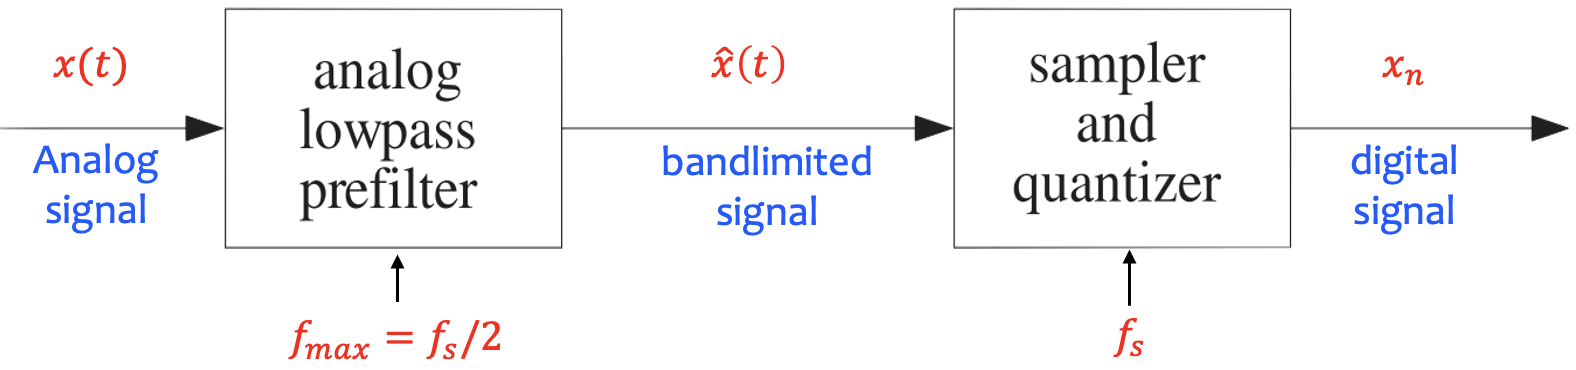
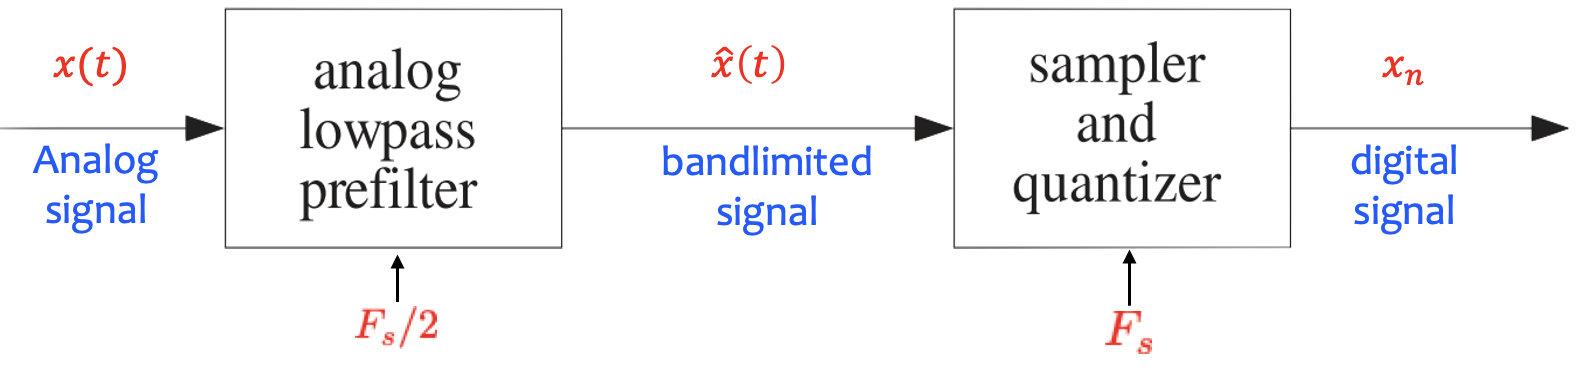
upd cap2

Changed region(s): [[0.1865, 0.8324, 0.342, 0.9811], [0.684, 0.8324, 0.7462, 0.9811]]

diff --git a/cap2-audio.md b/cap2-audio.md
@@ -29,26 +29,17 @@ Un computer può memorizzare solo un numero finito di valori numerici, e tali va
 
 In termini hardware, un convertitore analogico-digitale (ADC) è un dispositivo, o chip, che converte segnali da analogici a digitali tramite campionamento e quantizzazione, mentre un convertitore digitale-analogico (DAC) converte i segnali digitali in analogici tramite ricostruzione. Nella Figura è mostrato un esempio di sistema di elaborazione audio.
 
-```{image} images/sistema.png
-:alt: long
-:class: bg-primary mb-1
-:width: 700px
-:align: center
-```
+![sys](images/sistema.png)
+
 Le vibrazioni nell’aria, rappresentate dal segnale analogico, vengono convertite da un segnale di pressione a uno elettrico dal microfono. Il segnale analogico dal microfono viene poi trasformato in uno digitale tramite l’ADC, dopodiché il segnale digitale può essere elaborato da un computer. Il segnale digitale elaborato può quindi essere convertito in uno analogico tramite il DAC e, infine, riconvertito in un segnale di pressione da inviare, per esempio, ad un altoparlante attivo.
 
 Per quanto riguarda il motivo per cui preferiamo elaborare segnali digitali piuttosto che analogici, ci sono molte ragioni tecniche; le più importanti sono che i computer sono flessibili, possono fare cose che potremmo solo sognare con l’hardware analogico e sono generalmente molto più economici rispetto alla corrispondente soluzione analogica. 
 
 La rappresentazione digitale di un segnale audio analogico come sequenza di numeri è ottenuta tramite un convertitore analogico-digitale (ADC). L’ADC esegue il campionamento delle ampiezze del segnale analogico $x(t)$ su una griglia equidistante lungo l’asse orizzontale del tempo e la quantizzazione delle ampiezze in campioni fissi rappresentati da numeri $x(n)$ lungo l’asse verticale dell’ampiezza (come in figura). 
 
-```{image} images/DAFX.png
-:alt: long
-:class: bg-primary mb-1
-:width: 700px
-:align: center
-```
+![DAFX](images/DAFX.png)
 
-I campioni sono mostrati come linee verticali con punti in alto. Il segnale analogico $x(t)$ indica l’ampiezza del segnale su un tempo continuo $t$in microsecondi. A seguito dell’ADC, il segnale digitale (tempo discreto e ampiezza quantizzata) è una sequenza (flusso) di campioni $x(n)$ rappresentati da numeri sull'indice di tempo discreto $n$. La distanza temporale tra due campioni consecutivi è chiamata intervallo di campionamento $T$ (periodo di campionamento) e il reciproco è la frequenza di campionamento.
+I campioni sono mostrati come linee verticali con punti in alto. Il segnale analogico $x(t)$ indica l’ampiezza del segnale su un tempo continuo $t$in microsecondi. A seguito dell’ADC, il segnale digitale (tempo discreto e ampiezza quantizzata) è una sequenza (flusso) di campioni $x(n)$ rappresentati da numeri sull'indice di tempo discreto $n$. La distanza temporale tra due campioni consecutivi è chiamata intervallo di campionamento $T_s$ (periodo di campionamento) e il reciproco è la frequenza di campionamento $F_s$.
 
 In questo capitolo, spiegheremo cosa sono il campionamento e la quantizzazione, come funzionano e anche come possiamo ricostruire segnali analogici partendo da quelli digitali.
 
@@ -57,16 +48,19 @@ In questo capitolo, spiegheremo cosa sono il campionamento e la quantizzazione, 
 Il processo di campionamento trasforma un segnale analogico in un segnale discreto, raccogliendo valori a intervalli di tempo regolari. In linea di principio, il teorema di campionamento di Nyquist-Shannon afferma che, affinché un segnale possa essere rappresentato senza ambiguità, la frequenza di campionamento deve essere almeno il doppio della frequenza massima del segnale originale. 
 
 Supponiamo di avere un segnale nel tempo continuo, $x(t)$, definito per ogni valore reale di $t$ e che vogliamo elaborare con un DSP. Il processo di campionamento comporta la misurazione del valore di questa funzione in istanti di tempo specifici, $t_n$, indicizzati da $n= 0,1,2,\dots$, per ottenere il segnale $x(n)=x(t_n)$, che chiamiamo `segnale a tempo discreto`. Il modo più semplice e comune di campionare è il campionamento uniforme, che significa campionare a punti equidistanti, cioè,
+
 $$t_n = T_s n, \qquad n = 0,1,2,\dots$$
+
 dove $T_s$ è il tempo (in secondi) tra due campioni consecutivi ed è chiamato `periodo di campionamento`. Possiamo osservare che un segnale campionato, o digitale, è in realtà solo una sequenza ordinata di numeri. Più piccolo è $T_s$, più finemente campioniamo il segnale continuo originale, $x(t)$. Possiamo rappresentare il numero di campioni ottenuti per secondo utilizzando la `frequenza di campionamento`, definita come
-$$f_s=\frac{1}{T_s}.$$
+
+$$F_s=\frac{1}{T_s}.$$
 
 La frequenza di campionamento è misurata in Hertz (Hz). L’audio viene solitamente campionato a $44.1$ kHz e oltre, mentre la voce può essere campionata fino a $8$ kHz, il che risulta in segnali comprensibili ma certamente non di alta qualità. Nella figura, il processo di campionamento è esemplificato da un segnale continuo, $x(t)$ (blu), che viene campionato per ottenere il segnale a tempo discreto $x(n)$ (rosso).
 
 ```{image} images/sampling.png
 :alt: long
 :class: bg-primary mb-1
-:width: 400px
+:width: 350px
 :align: center
 ```
 
@@ -78,52 +72,44 @@ x(t)=\sin\left( 2\pi ft \right).
 
 Usando la definizione di frequenza di campionamento, otteniamo 
 
-$$x(n)=\sin\left( 2\pi \frac{f}{f_s}n \right)$$
+$$x(n)=\sin\left( 2\pi \frac{f}{F_s}n \right)$$
 
-da cui possiamo definire la seguente quantità
+da cui possiamo definire le seguente quantità
 
-$$\omega=2\pi \frac{f}{f_s}$$
+$$\omega=2\pi \frac{f}{F_s}$$
 
-che chiamiamo `frequenza digitale`. Essa esprime il numero di radianti per campione. Da una tale frequenza digitale da sola, quindi, non possiamo determinare quale sarebbe la frequenza in Hertz, a meno che non conosciamo la frequenza di campionamento. Una frequenza digitale di $\omega=2\pi$ corrisponde alla frequenza di campionamento, indipendentemente dal valore che essa assume. Questo spiega intuitivamente il fatto che un segnale digitale è semplicemente una sequenza di numeri; quindi, senza ulteriori conoscenze, non avremmo modo di dedurre nulla riguardo alla frequenza di campionamento.
+che chiamiamo `frequenza digitale`. Essa esprime il numero di radianti per campione [rad/sample], mentre il rapporto $f/F_s$ esprime il numero di cicli per campione [cycle/sample]. Da una tale frequenza digitale da sola, quindi, non possiamo determinare quale sarebbe la frequenza in Hertz, a meno che non conosciamo la frequenza di campionamento. Una frequenza digitale di $\omega=2\pi$ corrisponde alla frequenza di campionamento, indipendentemente dal valore che essa assume. Questo spiega intuitivamente il fatto che un segnale digitale è semplicemente una sequenza di numeri; quindi, senza ulteriori conoscenze, non avremmo modo di dedurre nulla riguardo alla frequenza di campionamento.
 
 Ora, la domanda fondamentale che dovremmo porci è questa: quale frequenza di campionamento dobbiamo scegliere per campionare il seno nell’equazione {eq}`eq1`? Parlando tecnicamente, ciò di cui ci preoccupiamo quando campioniamo è se lo spettro, ossia i contenuti in frequenza, del segnale campionato è lo stesso di quello del segnale continuo originale. Se lo è, significa che abbiamo una rappresentazione digitale perfetta del segnale analogico. Si può dimostrare che se campioniamo il segnale con una frequenza di campionamento che è più del doppio della frequenza del seno, il segnale campionato avrà lo stesso spettro dell’originale. Ora, sorgono un paio di domande. In primo luogo, come generalizziamo questo risultato a qualsiasi segnale, non solo ai seni? La risposta a questa domanda è che, come abbiamo già accennato, (quasi) qualsiasi segnale può essere considerato composto da un numero di seni, e possiamo utilizzare il principio di prima, secondo cui la frequenza di campionamento deve essere più del doppio delle frequenze dei seni. Quindi, se la frequenza più alta di un seno in un segnale è , allora la frequenza di campionamento dovrebbe rispettare
 
-$$f_s>2f_{max}.$$
+$$F_s>2f_{max}.$$
 
-Questo è conosciuto come il `teorema di campionamento`. A volte, a seconda del campo, è attribuito e denominato in base a diverse persone, tra cui Nyquist, Shannon, Whittaker e Kotelnikov. La seconda domanda è: come possiamo sapere qual è la frequenza massima dei seni nel nostro segnale? La risposta a questa domanda è che generalmente non lo sappiamo. Invece, possiamo semplicemente assicurarci che, per una frequenza di campionamento selezionata, $f_s$, per il nostro sistema audio, rimuoveremo tutti i contenuti superiormente da $f_s/2$! Questo viene fatto con un cosiddetto `filtro anti-aliasing`, che è semplicemente un filtro passa-basso analogico con una frequenza di stop pari a $f_s/2$, il che significa che tutte le frequenze al di sopra della frequenza di stop vengono rimosse o attenuate. Questo è illustrato in figura.
+Questo è conosciuto come il `teorema di campionamento`. A volte, a seconda del campo, è attribuito e denominato in base a diverse persone, tra cui Nyquist, Shannon, Whittaker e Kotelnikov. La seconda domanda è: come possiamo sapere qual è la frequenza massima dei seni nel nostro segnale? La risposta a questa domanda è che generalmente non lo sappiamo. Invece, possiamo semplicemente assicurarci che, per una frequenza di campionamento selezionata, $F_s$, per il nostro sistema audio, rimuoveremo tutti i contenuti superiormente da $F_s/2$! Questo viene fatto con un cosiddetto `filtro anti-aliasing`, che è semplicemente un filtro passa-basso analogico con una frequenza di stop pari a $F_s/2$, il che significa che tutte le frequenze al di sopra della frequenza di stop vengono rimosse o attenuate. Questo è illustrato in figura.
 
-```{image} images/antialiasing.png
-:alt: long
-:class: bg-primary mb-1
-:width: 700px
-:align: center
-```
+![aalias](images/antialiasing.png)
+
 ##### Aliasing
 
-Diciamo che il segnale è quindi a banda limitata. `L’aliasing` si riferisce al fenomeno che si verifica quando non rispettiamo il teorema di campionamento. Quando campioniamo a una frequenza di campionamento che è inferiore al doppio della frequenza massima, ciò che accade è che le parti dello spettro al di sopra della metà della frequenza di campionamento si ripiegano attorno alla metà della frequenza di campionamento e appaiono nello spettro inferiore come immagini speculari di sorta. Poiché queste immagini speculari si mescolano con i contenuti in frequenza e non possono essere recuperate o rimosse, abbiamo distorto il nostro segnale. Ad esempio, tornando all’esempio in cui il segnale è un singolo seno, un seno di 5 Hz campionato a 4 Hz subirebbe aliasing e il segnale campionato sarebbe identico a un seno di 1 Hz!, come si nota anche dallo spettro nella figura. 
-```{image} images/alias.png
-:alt: alias
-:class: bg-primary mb-1
-:width: 700px
-:align: center
-```
-La frequenza $f_s/2$ è molto importante, ed è chiamata `frequenza di Nyquist`. Nella successiva figura, è invece mostrato un esempio di un segnale continuo e del segnale digitale risultante. Il segnale continuo è un seno con una frequenza di 2 Hz ed è campionato a una frequenza di 5 Hz. In quel caso, il teorema di campionamento è soddisfatto, e possiamo vedere che i campioni rappresentano bene il segnale. 
+Diciamo che il segnale è quindi a banda limitata. `L’aliasing` si riferisce al fenomeno che si verifica quando non rispettiamo il teorema di campionamento. Quando campioniamo a una frequenza di campionamento che è inferiore al doppio della frequenza massima ciò che accade è che le parti dello spettro al di sopra della metà della frequenza di campionamento si ripiegano attorno alla metà della frequenza di campionamento e appaiono nello spettro inferiore come immagini speculari di sorta. Poiché queste immagini speculari si mescolano con i contenuti in frequenza e non possono essere recuperate o rimosse, abbiamo distorto il nostro segnale. Ad esempio, tornando all’esempio in cui il segnale è un singolo seno di 5 Hz ma campionato a 4 Hz, il segnale campionato subirebbe aliasing risultando identico a un seno di 1 Hz!, come si nota anche dallo spettro nella figura. 
 
-```{image} images/noalias.png
+![aalias](images/alias.png)
+
+La frequenza $F_s/2$ è molto importante, ed è chiamata `frequenza di Nyquist`. Nella successiva figura, è invece mostrato un esempio di un segnale continuo e del segnale digitale risultante. Il segnale continuo è un seno con una frequenza di 2 Hz ed è campionato a una frequenza di 5 Hz. In quel caso, il teorema di campionamento è soddisfatto, e possiamo vedere che i campioni rappresentano bene il segnale. 
+
+![noalias](images/noalias.png)
+
+Una regola semplice che definisce quali frequenze spurie compariranno nello spettro per effetto dell'aliasing è la seguente: ogni frequenza $f\in [-F_s/2, 𝐹_s/2]+ k 𝐹_𝑠$, con  $k\in\mathbb{N}$, ha un unico valore corrispondente che si trova all'interno dell'intervallo di Nyquist $[-F_s/2, 𝐹_s/2]$ e si ottiene aggiungendo o sottraendo da $f$ un numero pari a $k$ multipli di $F_s$, fino a quando non cade all'interno dell'intervallo di Nyquist. L'operazione è un'operazione modulare come riportata in figura qui sotto.
+
+```{image} images/mod_alias.png
 :alt: long
 :class: bg-primary mb-1
-:width: 700px
+:width: 600px
 :align: center
 ```
 
 Per riassumere le frequenze in gioco nel processo di campionamento, riportiamo in tabella di seguito le principali definizioni e in particolare la loro relazione con l'intervallo di Nyquist. 
 
-```{image} images/tabella_freq.png
-:alt: freq
-:class: bg-primary mb-1
-:width: 700px
-:align: center
-```
+![tab](images/tabella_freq.png)
 
 Nella Tabella sotto sono elencate alcune delle frequenze di campionamento audio più comuni e le loro applicazioni. Le moderne schede audio supportano solitamente un’ampia gamma di frequenze di campionamento e sono quindi piuttosto flessibili. È importante notare che, per ragioni tecniche, è spesso vantaggioso utilizzare una frequenza di campionamento più alta nella registrazione originale e durante l’elaborazione rispetto a quella che verrà utilizzata nel prodotto finale, come un CD. Accenniamo brevemente al fatto che il processo di passaggio da una frequenza di campionamento a un’altra, un’operazione comune in molti sistemi audio, si chiama ricampionamento.
 
@@ -316,13 +302,14 @@ Ecco i dettagli chiave su come funziona e perché è utile:
    - Immagina un sistema che acquisisce un segnale audio. Un ADC bipolare può convertire l’intero segnale, senza troncare o saturare valori negativi. Se il segnale va da $ -2.5 \, \text{V} $ a $ +2.5 \, \text{V} $ e il sistema ha un ADC a 10 bit con riferimento di $ 2.5 \, \text{V} $, ogni valore digitale rappresenta un piccolo intervallo uniforme di tensione (passo di quantizzazione) su tutto l’intervallo bipolare.
 
 In sintesi, un ADC bipolare è ideale per applicazioni in cui il segnale analogico è bilaterale, garantendo una rappresentazione digitale precisa ed efficiente dei segnali a polarità variabile. In figura si mostra lo schema di funzionamento di un ADC caratterizzato da un full-scale range $𝑅$ diviso equamente (per un quantizzatore uniforme) in $l=2^𝑞$ livelli di quantizzazione. La spaziatura tra i livelli è chiamata `Risoluzione del quantizzatore` ed è pari a $Q=𝑅/2^𝑞$.
+
 ![bipolare](images/ADC-bipolare.png)
 
 In figura si mostra un modello di convertitore ADC Sample and Hold (S&H) a $q+1$ bit di risoluzione, che è un elemento fondamentale nei sistemi di conversione.
 
 ![SAM-HOLD.png](images/SAM-HOLD.png) 
 
- Questo modello consente di “campionare” un segnale analogico in un determinato istante di tempo e di mantenere, o “tenere”, il valore del segnale fino al campionamento successivo, rendendolo disponibile per l’ADC e garantendo una conversione precisa. Questo è essenziale perché il processo di conversione richiede un certo tempo e il segnale può variare rapidamente. In ogni ciclo di campionamento, il circuito S&H esegue due operazioni: la fase di campionamento (Sample) e la fase di mantenimento (Hold). Nella fase di campionamento (Sample) il circuito chiude un interruttore per un breve periodo, consentendo al condensatore (il componente principale per mantenere la tensione) di caricare il valore istantaneo del segnale analogico. Nella fase di mantenimento (Hold) l’interruttore si apre, isolando il condensatore dal segnale in ingresso. Il condensatore ora mantiene (o trattiene) il valore della tensione catturata finché non avviene il campionamento successivo. Le componenti principali sono:
+Questo modello consente di “campionare” un segnale analogico in un determinato istante di tempo e di mantenere, o “tenere”, il valore del segnale fino al campionamento successivo, rendendolo disponibile per l’ADC e garantendo una conversione precisa. Questo è essenziale perché il processo di conversione richiede un certo tempo e il segnale può variare rapidamente. In ogni ciclo di campionamento, il circuito S&H esegue due operazioni: la fase di campionamento (Sample) e la fase di mantenimento (Hold). Nella fase di campionamento (Sample) il circuito chiude un interruttore per un breve periodo, consentendo al condensatore (il componente principale per mantenere la tensione) di caricare il valore istantaneo del segnale analogico. Nella fase di mantenimento (Hold) l’interruttore si apre, isolando il condensatore dal segnale in ingresso. Il condensatore ora mantiene (o trattiene) il valore della tensione catturata finché non avviene il campionamento successivo. Le componenti principali sono:
 - Interruttore: Generalmente realizzato con un transistor MOSFET o un interruttore elettronico, che si apre e chiude per controllare il flusso del segnale al condensatore.
 - Condensatore: Memorizza la tensione campionata, trattenendola durante la fase di mantenimento. La capacità del condensatore influenza il tempo di mantenimento e la precisione.
 - Buffer: Spesso è presente un buffer (come un amplificatore operazionale) tra il condensatore e il carico, per evitare che il segnale decada a causa della scarica del condensatore.
@@ -333,11 +320,6 @@ Lo schema del circuito  è mostrato sotto e lo scopo è quello di acquisire la t
 
 In sintesi, il modello Sample and Hold è cruciale per isolare e trattenere il segnale analogico prima della conversione digitale, riducendo errori di quantizzazione e migliorando la fedeltà dei dati digitali.
 
-
-
-
-
-
 ## Conversione Digitale-Analogica (DAC)
 
 Un convertitore DAC (Digital-to-Analog Converter) è un dispositivo che trasforma segnali digitali in segnali analogici. Questa conversione è fondamentale per applicazioni in cui segnali digitali devono essere presentati o utilizzati in un ambiente analogico, come in dispositivi audio, video, comunicazioni, e attuatori di controllo. Il Principio di Funzionamento di un DAC è il seguente.
@@ -346,7 +328,7 @@ Un convertitore DAC (Digital-to-Analog Converter) è un dispositivo che trasform
 
 La trasformazione di bit in livelli di tensione in un convertitore digitale-analogico (DAC) avviene assegnando a ogni combinazione di bit un valore di tensione corrispondente, che rispecchia l’informazione digitale in un formato analogico.
 
-###### Codifica Binaria e Livelli di Tensione
+##### Codifica Binaria e Livelli di Tensione
 
 - In un sistema digitale a $m$ bit, ogni configurazione dei bit rappresenta un valore discreto, compreso tra $0$ e $2^{m}-1$.
 - L’intervallo di tensione totale del DAC è definito dai valori di tensione $V_{\text{min}}$ e $V_{\text{max}}$, dove $V_{\text{min}}$ è il livello di tensione più basso (di solito $0$ V) e $V_{\text{max}}$ il livello più alto.
@@ -360,9 +342,9 @@ Nella conversione unipolare, il `DAC Unipolare` converte i segnali digitali in l
 
 ![alt text](images/DAC.png)
 
-
 Per ottenere la tensione in uscita $V_{out}$ per una configurazione di bit specifica $b_1,\dots,b_m$ (un valore binario tra 0 e $2^m-1$), la formula è:
 
 $$V_{out}=\frac{V_{\text{ref}}}{2^m}(𝑏_0 2^{0}+𝑏_1 2^{1}+\cdots+b_{N-1}2^{N-1})=\frac{V_{\text{ref}}}{2^m}D$$
 
 dove $D\in\{0,1,\dots,2^m-1\}$.
+

diff --git a/cap1-suono.md b/cap1-suono.md
@@ -4,7 +4,13 @@ Il suono
 
 ##### Introduzione
 
+Il suono è una parte integrante della nostra vita. È uno dei modi più importanti per percepire il mondo che ci circonda. Inoltre, è fondamentale per la nostra comunicazione con l’ambiente e con gli altri esseri umani. È anche un mezzo di espressione e di esperienza artistica, sotto forma, ad esempio, di musica. Per la maggior parte di noi, sarebbe difficile immaginare una vita senza suono.
 
+Il suono viene spesso definito come una sensazione uditiva o come la perturbazione in un mezzo che provoca tale sensazione. Come fenomeno fisico, che è il modo in cui lo considereremo qui, il suono si riferisce a onde che originano in un punto e si propagano attraverso un mezzo fino a raggiungere un altro punto, dove possono essere udite o misurate. Queste onde sonore viaggiano in solidi, liquidi e gas, e si presentano in due forme: longitudinali e trasversali. Nelle onde longitudinali, lo spostamento del mezzo avviene nella direzione di propagazione dell’onda, mentre nelle onde trasversali, lo spostamento è ortogonale alla direzione di propagazione. Entrambi i tipi di onde causano variazioni di pressione, misurate in un singolo punto, che possono provocare una sensazione uditiva. Le onde sonore possono essere generate da corpi in vibrazione, cambiamenti nel flusso d’aria, fonti di calore, ecc. È chiaro quindi che nella creazione e propagazione del suono sono coinvolti alcuni principi fisici.
+
+I capitoli seguenti trattano ciò che viene chiamato elaborazione audio, ovvero la teoria e i metodi per l’elaborazione dei segnali audio. I segnali audio si riferiscono semplicemente a segnali sonori udibili, mentre un segnale è qualcosa che viene misurato nel tempo (e/o nello spazio). Questo qualcosa, in questo contesto, è la pressione, perché ciò che percepiamo con le nostre orecchie sono variazioni di pressione. Cosa significa allora elaborazione? L’elaborazione si riferisce a qualsiasi operazione che possiamo voler fare con o sui segnali audio. Potremmo voler manipolare i segnali audio per scopi artistici, per creare musica; potremmo voler comprimere i segnali di parlato o musicali per consentirne la trasmissione (come in Skype o nei nostri smartphone) o per immagazzinarli in modo efficiente (come nei formati mp3, OGG o AAC); potremmo voler identificare chi sta parlando o cosa sta dicendo, determinare da dove proviene un suono, e così via. Nella tecnologia dei media, un esempio di elaborazione audio potrebbe essere un metodo per far sì che un parlato registrato per un videogioco suoni come se fosse pronunciato in un determinato ambiente acustico o da una certa angolazione. Potrebbe anche includere metodi per generare automaticamente contenuti, come musica di sottofondo e suoni ambientali, per un videogioco, oppure effetti audio per performance musicali dal vivo o strumenti per registrare e produrre musica.
+
+Prima di approfondire l’elaborazione audio, è importante comprendere la natura dei segnali audio. Inizieremo quindi con l'esplorazione del suono come fenomeno fisico.
 
 ## La fisica del suono
 
@@ -17,7 +23,7 @@ Sul piano percettivo, il suono è una sensazione uditiva provocata da una variaz
 
 Della natura delle vibrazioni e delle onde sonore e della loro propagazione nel mezzo si occupa la `acustica fisica`, del rapporto tra onda sonora e il ricevente (il sistema orecchio – cervello), e quindi di come l’uomo interpreta i segnali acustici, si occupa la `psicoacustica`.
 
-##### La natura fisica del suono
+##### La trasmissione del suono
 
 Il suono è un’onda meccanica che si propaga attraverso un `mezzo`, sia esso solido, liquido o gassoso. A differenza delle onde elettromagnetiche, come la luce, le onde sonore hanno bisogno di un mezzo per spostarsi e non possono propagarsi nel vuoto. La propagazione del suono avviene per mezzo di `vibrazioni` che si trasmettono da una particella all’altra all’interno del mezzo: quando un oggetto vibra, genera una serie di `compressioni` e `rarefazioni` nell’aria circostante (o in altri mezzi), producendo l’onda sonora.
 
